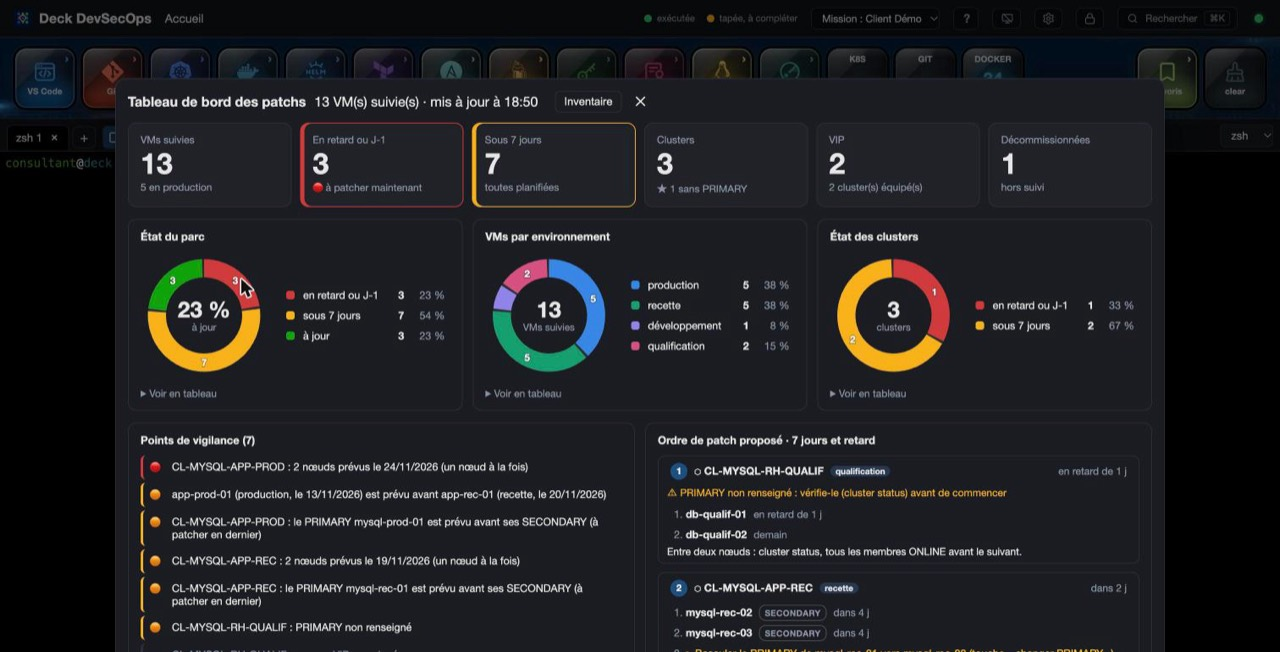
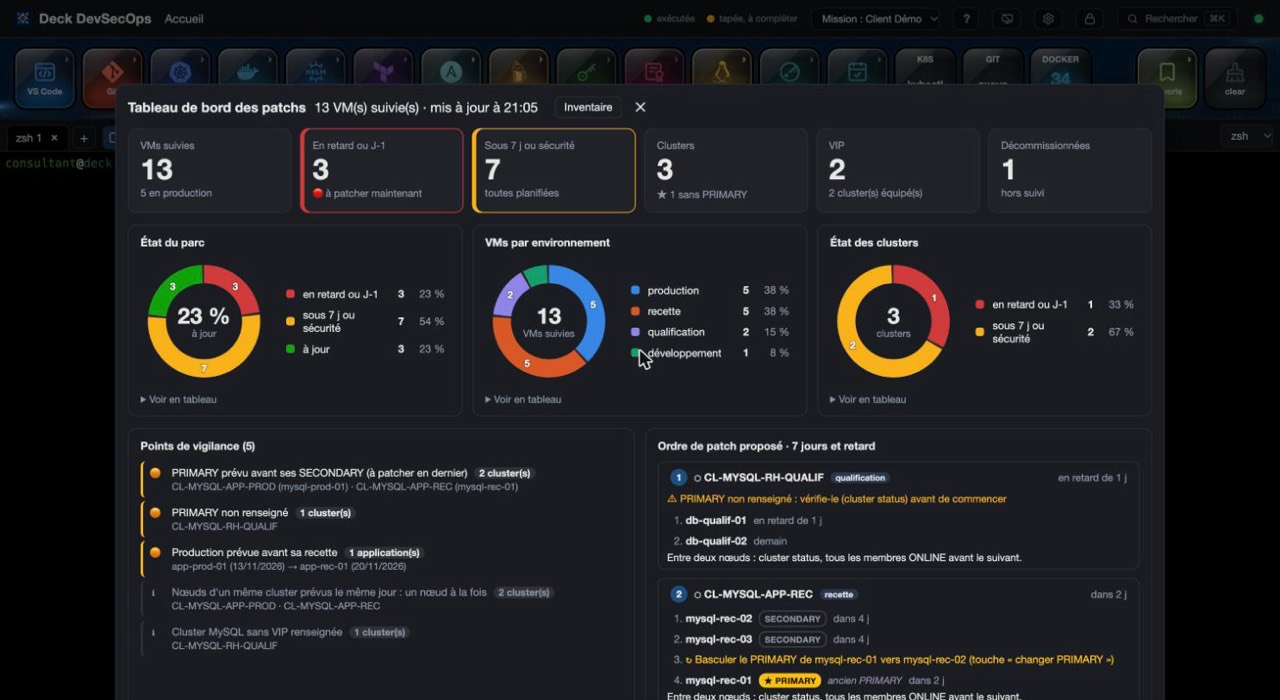
Tableau de bord : points de vigilance regroupés par type ; couleurs des environnements
- Une ligne par type (production avant recette, PRIMARY avant ses SECONDARY,
  PRIMARY non renseigné, nœuds le même jour, cluster sans VIP, redémarrage requis)
  avec le nombre de clusters ou de VMs, les premiers en clair, tous au survol ;
  « nœuds le même jour » en information ; le retard n'est plus un point de vigilance.
- Anneau des environnements : production bleu, recette orange, qualification violet,
  développement aqua (paires validées daltonisme) ; légende sur deux lignes si besoin.

diff --git a/public/patch-plan.js b/public/patch-plan.js
@@ -86,36 +86,33 @@ export const appKey = (name) => {
 };
 
 /**
- * Points de vigilance, du plus grave au moins grave (critical, warning, info), chacun avec les VMs concernées :
- * deux nœuds d'un cluster le même jour, majorité des nœuds en retard, PRIMARY prévu avant ses SECONDARY,
- * PRIMARY non renseigné, production prévue avant sa recette, cluster MySQL sans VIP, redémarrage requis (relevé).
+ * Points de vigilance, regroupés par type (une ligne par type, même avec beaucoup de clusters), du plus grave au moins
+ * grave : production prévue avant sa recette, PRIMARY prévu avant ses SECONDARY, PRIMARY non renseigné (warning) ;
+ * nœuds d'un cluster prévus le même jour, cluster MySQL sans VIP, redémarrage requis (info).
+ * Chaque point : { level, kind, text, unit, items (clusters ou VMs concernés), vms (VMs à ouvrir dans l'inventaire) }.
+ * Le retard n'en fait pas partie : il est déjà dans les chiffres, les anneaux et l'ordre de patch.
  */
-export function patchRisks(vms, clusters = {}, { today = new Date() } = {}) {
-    const days = (v) => daysUntil(v.nextPatch, today);
-    const risks = [];
-    const add = (level, text, names) => risks.push({ level, text, vms: names });
+export function patchRisks(vms, clusters = {}) {
+    const groups = new Map();
+    const add = (kind, level, text, unit, item, names) => {
+        const g = groups.get(kind) ?? { level, kind, text, unit, items: [], vms: new Set() };
+        g.items.push(item);
+        for (const n of names) g.vms.add(n);
+        groups.set(kind, g);
+    };
     for (const [cluster, nodes] of clusterNodes(vms)) {
-        const prod = nodes.some((v) => v.env === "production");
-        // Même jour : un nœud à la fois
-        const byDay = new Map();
-        for (const v of nodes) if (v.nextPatch) byDay.set(v.nextPatch, [...(byDay.get(v.nextPatch) ?? []), v]);
-        for (const [day, same] of byDay) {
-            if (same.length > 1) add(prod ? "critical" : "warning", `${cluster} : ${same.length} nœuds prévus le ${frDay(day)} (un nœud à la fois)`, same.map((v) => v.name).sort());
-        }
-        // Majorité des nœuds en retard
-        const late = nodes.filter((v) => (days(v) ?? 1) < 0);
-        if (nodes.length > 1 && late.length > nodes.length / 2) {
-            add("critical", `${cluster} : ${late.length} nœuds sur ${nodes.length} en retard (un nœud à la fois, quorum vérifié entre chaque)`, late.map((v) => v.name).sort());
-        }
+        const names = nodes.map((v) => v.name);
+        // Même jour : normal pour une fenêtre de maintenance, à condition de patcher un nœud à la fois
+        const days = new Map();
+        for (const v of nodes) if (v.nextPatch) days.set(v.nextPatch, (days.get(v.nextPatch) ?? 0) + 1);
+        if ([...days.values()].some((n) => n > 1)) add("same-day", "info", "Nœuds d'un même cluster prévus le même jour : un nœud à la fois", "cluster(s)", cluster, names);
         const primary = nodes.find((v) => v.role === "primary");
         const secondaries = nodes.filter((v) => v !== primary && v.nextPatch);
         if (primary?.nextPatch && secondaries.length && primary.nextPatch < secondaries.map((v) => v.nextPatch).sort()[0]) {
-            add("warning", `${cluster} : le PRIMARY ${primary.name} est prévu avant ses SECONDARY (à patcher en dernier)`, [primary.name, ...secondaries.map((v) => v.name).sort()]);
+            add("primary-first", "warning", "PRIMARY prévu avant ses SECONDARY (à patcher en dernier)", "cluster(s)", `${cluster} (${primary.name})`, names);
         }
-        if (!primary && nodes.length > 1) add("warning", `${cluster} : PRIMARY non renseigné`, nodes.map((v) => v.name).sort());
-        if (nodes.some((v) => v.profile === "mysql-innodb") && !clusters[cluster]?.vips?.length) {
-            add("info", `${cluster} : aucune VIP renseignée`, nodes.map((v) => v.name).sort());
-        }
+        if (!primary && nodes.length > 1) add("no-primary", "warning", "PRIMARY non renseigné", "cluster(s)", cluster, names);
+        if (nodes.some((v) => v.profile === "mysql-innodb") && !clusters[cluster]?.vips?.length) add("no-vip", "info", "Cluster MySQL sans VIP renseignée", "cluster(s)", cluster, names);
     }
     // Production prévue avant la recette (ou un autre environnement) de la même application
     const apps = new Map();
@@ -128,12 +125,13 @@ export function patchRisks(vms, clusters = {}, { today = new Date() } = {}) {
         const other = list.filter((v) => v.env !== "production").sort((a, b) => a.nextPatch.localeCompare(b.nextPatch));
         if (!prod.length || !other.length || prod[0].nextPatch >= other[0].nextPatch) continue;
         const label = (v) => v.cluster || v.name;
-        add("warning", `${label(prod[0])} (production, le ${frDay(prod[0].nextPatch)}) est prévu avant ${label(other[0])} (${other[0].env}, le ${frDay(other[0].nextPatch)})`,
-            [...new Set([...prod, ...other].map((v) => v.name))].sort());
+        add("prod-first", "warning", "Production prévue avant sa recette", "application(s)",
+            `${label(prod[0])} (${frDay(prod[0].nextPatch)}) → ${label(other[0])} (${frDay(other[0].nextPatch)})`, [...prod, ...other].map((v) => v.name));
     }
     // Redémarrage requis d'après le dernier relevé (noyau ou bibliothèques mis à jour, pas encore pris en compte)
-    const reboot = live(vms).filter((v) => v.check?.reboot).map((v) => v.name).sort();
-    if (reboot.length) add("info", `${reboot.length} VM(s) avec redémarrage requis : ${reboot.slice(0, 6).join(", ")}${reboot.length > 6 ? "…" : ""}`, reboot);
+    for (const v of live(vms).filter((x) => x.check?.reboot)) add("reboot", "info", "Redémarrage requis (relevé)", "VM(s)", v.name, [v.name]);
     const rank = { critical: 0, warning: 1, info: 2 };
-    return risks.sort((a, b) => rank[a.level] - rank[b.level] || a.text.localeCompare(b.text, "fr"));
+    return [...groups.values()]
+        .map((g) => ({ ...g, items: [...new Set(g.items)].sort((a, b) => a.localeCompare(b, "fr", { numeric: true })), vms: [...g.vms].sort() }))
+        .sort((a, b) => rank[a.level] - rank[b.level] || b.items.length - a.items.length);
 }

diff --git a/public/style.css b/public/style.css
@@ -1681,9 +1681,10 @@ input[type="date"]::-webkit-calendar-picker-indicator:hover, input[type="datetim
 .dash-click:focus-visible { outline: 2px solid var(--accent-strong); outline-offset: 2px; border-radius: 4px; }
 .dash-tile.dash-click:hover, .dash-cluster.dash-click:hover, .dash-risk.dash-click:hover, .dash-plan-head.dash-click:hover, .dash-row.dash-click:hover { background: color-mix(in srgb, var(--accent-strong) 12%, transparent); }
 .dash-row-label.dash-click:hover { text-decoration: underline; }
-/* Anneaux : environnements en teintes non réservées (validées daltonisme, ordre fixe), redéfinies en mode clair */
-#patch-dash { --env-0: #3987e5; --env-1: #199e70; --env-2: #9085e9; --env-3: #d55181; --env-4: #8a8f98; }
-[data-mode="light"] #patch-dash { --env-0: #2a78d6; --env-1: #1baf7a; --env-2: #6250d6; --env-3: #e87ba4; --env-4: #8a8f98; }
+/* Anneaux : environnements (ordre fixe, voir DASH_ENVS) : production bleu, recette orange, qualification violet,
+   développement aqua, autre gris. Validé daltonisme : seuls bleu et violet se confondent, jamais voisins sauf sans recette */
+#patch-dash { --env-0: #3987e5; --env-1: #d95926; --env-2: #9085e9; --env-3: #199e70; --env-4: #8a8f98; }
+[data-mode="light"] #patch-dash { --env-0: #2a78d6; --env-1: #eb6834; --env-2: #6250d6; --env-3: #1baf7a; --env-4: #8a8f98; }
 .dash-donuts { display: grid; grid-template-columns: repeat(auto-fit, minmax(300px, 1fr)); gap: 12px; }
 .dash-donut { display: flex; align-items: center; gap: 16px; }
 .dash-donut-chart { position: relative; width: 150px; height: 150px; flex: none; }
@@ -1698,7 +1699,7 @@ input[type="date"]::-webkit-calendar-picker-indicator:hover, input[type="datetim
 .dash-donut-legend { display: flex; flex-direction: column; gap: 3px; min-width: 0; flex: 1; }
 .dash-donut-item { display: grid; grid-template-columns: 12px minmax(0, 1fr) auto 40px; align-items: center; gap: 8px; padding: 3px 6px; border-radius: 6px; font-size: 12.5px; }
 .dash-donut-item.dash-click:hover { background: color-mix(in srgb, var(--accent-strong) 12%, transparent); }
-.dash-donut-name { color: var(--text); overflow: hidden; text-overflow: ellipsis; white-space: nowrap; }
+.dash-donut-name { color: var(--text); line-height: 1.25; overflow-wrap: anywhere; }
 .dash-donut-count { color: var(--text); font-weight: 600; font-variant-numeric: tabular-nums; text-align: right; }
 .dash-donut-pct { color: var(--muted); font-variant-numeric: tabular-nums; text-align: right; }
 /* Points de vigilance : icône + texte (jamais la couleur seule) */
@@ -1707,6 +1708,9 @@ input[type="date"]::-webkit-calendar-picker-indicator:hover, input[type="datetim
 .dash-risk.critical { border-left-color: #d03b3b; }
 .dash-risk.warning { border-left-color: #fab219; }
 .dash-risk.info { border-left-color: var(--border); color: var(--muted); }
+.dash-risk-body { display: flex; flex-wrap: wrap; align-items: baseline; gap: 2px 8px; min-width: 0; }
+.dash-risk-count { font-size: 11.5px; font-weight: 700; padding: 0 6px; border-radius: 9px; background: color-mix(in srgb, var(--text) 10%, transparent); white-space: nowrap; }
+.dash-risk-items { flex-basis: 100%; font-size: 11.5px; color: var(--muted); overflow: hidden; text-overflow: ellipsis; white-space: nowrap; }
 /* Ordre de patch proposé */
 .dash-plan { display: flex; flex-direction: column; gap: 10px; max-height: 340px; overflow: auto; }
 .dash-plan-group { border: 1px solid var(--border); border-radius: 8px; padding: 6px 10px; }

diff --git a/public/i18n/en.js b/public/i18n/en.js
@@ -1406,12 +1406,7 @@ export default {
     "Semaine du {0}": "Week of {0}",
     "Points de vigilance ({0})": "Watch points ({0})",
     "🟢 Rien à signaler : un nœud à la fois, PRIMARY en dernier, recette avant production.": "🟢 Nothing to report: one node at a time, PRIMARY last, UAT before production.",
-    "{0} : {1} nœuds prévus le {2} (un nœud à la fois)": "{0}: {1} nodes scheduled on {2} (one node at a time)",
-    "{0} : {1} nœuds sur {2} en retard (un nœud à la fois, quorum vérifié entre chaque)": "{0}: {1} of {2} nodes overdue (one node at a time, quorum checked in between)",
-    "{0} : le PRIMARY {1} est prévu avant ses SECONDARY (à patcher en dernier)": "{0}: PRIMARY {1} is scheduled before its SECONDARY nodes (patch it last)",
     "{0} : PRIMARY non renseigné": "{0}: PRIMARY not set",
-    "{0} : aucune VIP renseignée": "{0}: no VIP set",
-    "{0} (production, le {1}) est prévu avant {2} ({3}, le {4})": "{0} (production, on {1}) is scheduled before {2} ({3}, on {4})",
     "Ordre de patch proposé · 7 jours et retard": "Suggested patch order · 7 days and overdue",
     "PRIMARY non renseigné : vérifie-le (cluster status) avant de commencer": "PRIMARY not set: check it (cluster status) before starting",
     "↻ Basculer le PRIMARY de {0} vers {1} (touche « changer PRIMARY »)": "↻ Switch the PRIMARY from {0} to {1} (\"switch PRIMARY\" key)",
@@ -1460,8 +1455,15 @@ export default {
     "Redémarrage requis (noyau ou bibliothèques mis à jour)": "Reboot required (kernel or libraries updated)",
     "🟠 sous 7 j, à planifier ou sécurité {0}": "🟠 within 7 d, to schedule or security {0}",
     "sous 7 j ou sécurité": "within 7 d or security",
-    "{0} VM(s) avec redémarrage requis : {1}": "{0} {0:VM|VMs} with reboot required: {1}",
     "{0} · {1} MAJ de sécurité": "{0} · {1} security {1:update|updates}",
     "sécu": "sec",
-    "Sous 7 j ou sécurité": "Within 7 d or security"
+    "Sous 7 j ou sécurité": "Within 7 d or security",
+    // ---------- Points de vigilance regroupés ----------
+    "Nœuds d'un même cluster prévus le même jour : un nœud à la fois": "Nodes of one cluster scheduled on the same day: one node at a time",
+    "PRIMARY prévu avant ses SECONDARY (à patcher en dernier)": "PRIMARY scheduled before its SECONDARY nodes (patch it last)",
+    "Cluster MySQL sans VIP renseignée": "MySQL cluster without a VIP set",
+    "Production prévue avant sa recette": "Production scheduled before its UAT",
+    "Redémarrage requis (relevé)": "Reboot required (survey)",
+    "{0} cluster(s)": "{0} {0:cluster|clusters}",
+    "{0} application(s)": "{0} {0:application|applications}"
 };

diff --git a/public/app.js b/public/app.js
@@ -4067,10 +4067,15 @@ function renderPatchDash() {
     const RISK_ICON = { critical: "🔴", warning: "🟠", info: "ℹ" };
     const riskList = h("div", "dash-risks");
     for (const r of risks) {
+        // Une ligne par type : titre, nombre de clusters (ou VMs) concernés, les premiers en clair, tous au survol
         const row = h("div", `dash-risk ${r.level}`);
-        row.append(h("span", "dash-risk-icon", RISK_ICON[r.level]), h("span", "dash-risk-text", r.text));
-        // Libellé de la sélection : le cluster ou la VM concernés (début du texte)
-        riskList.append(drillable(row, r.vms, `⚠ ${r.text.split(/ : | \(/)[0]}`));
+        const body = h("span", "dash-risk-body");
+        const items = h("span", "dash-risk-items", `${r.items.slice(0, 4).join(" · ")}${r.items.length > 4 ? ` +${r.items.length - 4}` : ""}`);
+        items.dataset.noI18n = "";
+        body.append(h("span", "dash-risk-text", r.text), h("span", "dash-risk-count", `${r.items.length} ${r.unit}`), items);
+        row.append(h("span", "dash-risk-icon", RISK_ICON[r.level]), body);
+        row.dataset.tip = r.items.join("\n");
+        riskList.append(drillable(row, r.vms, `⚠ ${tr(r.text)}`));
     }
     const riskCard = card(`Points de vigilance (${risks.length})`, risks.length ? riskList : h("p", "hint", "🟢 Rien à signaler : un nœud à la fois, PRIMARY en dernier, recette avant production."));
 
@@ -4121,7 +4126,9 @@ function renderPatchDash() {
 }
 
 /** Environnements dans l'anneau : ordre fixe (la couleur suit l'environnement, jamais son rang), teintes non réservées. */
-const DASH_ENVS = ["production", "recette", "développement", "qualification", "autre"];
+// Ordre de l'anneau et couleurs (style.css, --env-N) choisis pour que deux parts voisines restent distinctes, daltonisme
+// compris : production bleu, recette orange, qualification violet, développement aqua, autre gris
+const DASH_ENVS = ["production", "recette", "qualification", "développement", "autre"];
 
 /**
  * Anneau (camembert évidé) : un tout en 6 parts au plus, lu d'un coup d'œil. Parts séparées par un liseré, nombre

diff --git a/README.md b/README.md
@@ -207,7 +207,7 @@ Après une modification de `config.jsonc` ou `paths.json`, redémarrer le serveu
 
 ## Patchs des VMs
 
-Rubrique **Patchs** (à cocher dans Réglages › Rubriques) : inventaire de tes VMs (nom, hôte SSH, clé SSH pour `ssh -i`, environnement, tags libres (`linux, dmz, critique`), description, dernier et prochain patch, fréquence) dans `patches.json` (hors Git, sauvegardé, inclus dans la configuration complète). Le **voyant patchs** affiche la VM la plus urgente (J-3, J, J+2 en retard) : vert, **orange à 7 jours ou moins**, **rouge à J-1, le jour même ou en retard** ; alertes une fois par seuil comme pour les certificats. **Patché** met le dernier patch à aujourd'hui et recalcule le prochain avec la fréquence (noté dans le journal). Touches **ssh VM** et **ssh -i VM** (clé puis hôte, listes réelles) ; **relevé patch** / **relevé Windows** : dans le terminal connecté à la VM, commande en lecture seule (sans sudo) qui imprime une ligne repère `DECK-PATCH …` lue par le deck : dernier patch réel (prochain recalculé), mises à jour en attente, sécurité, redémarrage requis ; **sécurité en attente = VM en orange** ; bouton **SSH** de l'inventaire avec la clé de la VM si elle est renseignée. Touches de vérification sur la VM après un ssh : mises à jour en attente (apt / dnf), sécurité, redémarrage requis, noyau, historique, correctifs Windows. **Import en masse** depuis un CSV (Excel : séparateur `;`, dates JJ/MM/AAAA ; colonnes nom, hote, cle, environnement, dernier_patch, prochain_patch, frequence, tags, description) avec aperçu avant confirmation (ajout ou mise à jour par nom, jamais de suppression), **export CSV** réimportable et modèle à remplir. **Terminal connecté à une VM** : cadre de couleur autour du terminal (rouge en production, bleu sinon), étiquette accrochée au cadre (« SSH · app-prod-01 · production ») et nom sur l'onglet : VM de l'inventaire, sinon l'hôte ; seule la destination est lue dans la commande ssh. Inventaire lisible (lignes alternées, ligne survolée, liseré d'urgence). **Filtres** par environnement, par tags (combinés) et par **état** (en retard, sous 7 j, plus tard, décommissionnée), avec le nombre de VMs ; **tri** par urgence, nom, environnement ou dates (menu, ou clic sur les titres de colonnes ; retenu). Touches **cluster status**, **clusterset status** et **mysqlsh (JS)** (MySQL InnoDB Cluster, à lancer sur un nœud après le ssh : `` mysqlsh root@`hostname` -- cluster status `` / `clusterset status --extended=1`, et `` mysqlsh root@`hostname` --js `` pour les commandes `dba.*` ; mot de passe demandé par mysqlsh). Sous-page **Patchs › MySQL Cluster** : commandes à lancer dans la session JS, lecture (status, status étendu, clusterset, describe, membres GR, GTID, start_on_boot ; `session.runSql(…)` pour rester en JS) et remédiation tapée sans Entrée (rejoin, forcer quorum, reboot outage, changer PRIMARY, retirer / ajouter un nœud par clone), nœud choisi parmi ceux du cluster de la VM connectée (`hôte:3306`, rôle affiché). **Tableau de bord** (en-tête de l'inventaire ou ⌘K) : chiffres clés (VMs suivies, en retard, sous 7 jours, clusters, VIP, décommissionnées), patch par environnement (barres par statut, détail au survol, vue tableau), prochains patchs sur 8 semaines, clusters (nœuds, PRIMARY, VIP, état), tags les plus fréquents, trois anneaux (état du parc, VMs par environnement, état des clusters) ; tout est cliquable (inventaire filtré sur les VMs concernées) ; **points de vigilance** (nœuds d'un cluster le même jour, majorité en retard, PRIMARY prévu avant ses SECONDARY ou non renseigné, production avant sa recette, cluster MySQL sans VIP) et **ordre de patch proposé** (recette avant production, SECONDARY d'abord, bascule du PRIMARY, ancien PRIMARY en dernier ; copiable en Markdown). **VIP des clusters** (**✎ VIP** dans l'en-tête du cluster : `adresse[:port] [libellé]`, 10 au plus) : affichées dans l'en-tête, un clic tape `nc -zv <vip> <port>` sans Entrée ; recherche par adresse ; incluses dans la configuration complète. **VM décommissionnée** (case du formulaire, colonne CSV `decom`) : gardée dans l'inventaire, grisée et en fin de liste, hors suivi (voyant, alertes, calendrier, synthèse, listes de connexion), perd son rôle de PRIMARY ; **Remettre en service** la fait revenir ; un cluster dont tous les nœuds sont décommissionnés passe au gris. **Clusters** : champs Cluster, ClusterSet, Profil (standard ou MySQL InnoDB Cluster) et **Rôle** (PRIMARY / SECONDARY, un seul PRIMARY par cluster : l'ancien repasse SECONDARY) par VM, colonnes CSV `cluster`, `clusterset`, `profil`, `role` ; PRIMARY mis en avant (badge doré, en tête du cluster, rappelé dans l'en-tête) ; **⬡ par cluster** regroupe l'inventaire avec un en-tête par cluster (environnement, ClusterSet, nœuds, reboot requis, état le plus urgent). **Dupliquer** une VM : formulaire pré-rempli, nom suivant libre (`app-prod-01` → `app-prod-02`). Les touches qui demandent un hôte (**ssh VM**, **ssh -i VM**, rubrique SSH) proposent **les VMs de l'inventaire en tête** (nom et environnement affichés), la clé de la VM étant reprise pour `ssh -i`. Détails : [docs/13-patchs.md](docs/13-patchs.md).
+Rubrique **Patchs** (à cocher dans Réglages › Rubriques) : inventaire de tes VMs (nom, hôte SSH, clé SSH pour `ssh -i`, environnement, tags libres (`linux, dmz, critique`), description, dernier et prochain patch, fréquence) dans `patches.json` (hors Git, sauvegardé, inclus dans la configuration complète). Le **voyant patchs** affiche la VM la plus urgente (J-3, J, J+2 en retard) : vert, **orange à 7 jours ou moins**, **rouge à J-1, le jour même ou en retard** ; alertes une fois par seuil comme pour les certificats. **Patché** met le dernier patch à aujourd'hui et recalcule le prochain avec la fréquence (noté dans le journal). Touches **ssh VM** et **ssh -i VM** (clé puis hôte, listes réelles) ; **relevé patch** / **relevé Windows** : dans le terminal connecté à la VM, commande en lecture seule (sans sudo) qui imprime une ligne repère `DECK-PATCH …` lue par le deck : dernier patch réel (prochain recalculé), mises à jour en attente, sécurité, redémarrage requis ; **sécurité en attente = VM en orange** ; bouton **SSH** de l'inventaire avec la clé de la VM si elle est renseignée. Touches de vérification sur la VM après un ssh : mises à jour en attente (apt / dnf), sécurité, redémarrage requis, noyau, historique, correctifs Windows. **Import en masse** depuis un CSV (Excel : séparateur `;`, dates JJ/MM/AAAA ; colonnes nom, hote, cle, environnement, dernier_patch, prochain_patch, frequence, tags, description) avec aperçu avant confirmation (ajout ou mise à jour par nom, jamais de suppression), **export CSV** réimportable et modèle à remplir. **Terminal connecté à une VM** : cadre de couleur autour du terminal (rouge en production, bleu sinon), étiquette accrochée au cadre (« SSH · app-prod-01 · production ») et nom sur l'onglet : VM de l'inventaire, sinon l'hôte ; seule la destination est lue dans la commande ssh. Inventaire lisible (lignes alternées, ligne survolée, liseré d'urgence). **Filtres** par environnement, par tags (combinés) et par **état** (en retard, sous 7 j, plus tard, décommissionnée), avec le nombre de VMs ; **tri** par urgence, nom, environnement ou dates (menu, ou clic sur les titres de colonnes ; retenu). Touches **cluster status**, **clusterset status** et **mysqlsh (JS)** (MySQL InnoDB Cluster, à lancer sur un nœud après le ssh : `` mysqlsh root@`hostname` -- cluster status `` / `clusterset status --extended=1`, et `` mysqlsh root@`hostname` --js `` pour les commandes `dba.*` ; mot de passe demandé par mysqlsh). Sous-page **Patchs › MySQL Cluster** : commandes à lancer dans la session JS, lecture (status, status étendu, clusterset, describe, membres GR, GTID, start_on_boot ; `session.runSql(…)` pour rester en JS) et remédiation tapée sans Entrée (rejoin, forcer quorum, reboot outage, changer PRIMARY, retirer / ajouter un nœud par clone), nœud choisi parmi ceux du cluster de la VM connectée (`hôte:3306`, rôle affiché). **Tableau de bord** (en-tête de l'inventaire ou ⌘K) : chiffres clés (VMs suivies, en retard, sous 7 jours, clusters, VIP, décommissionnées), patch par environnement (barres par statut, détail au survol, vue tableau), prochains patchs sur 8 semaines, clusters (nœuds, PRIMARY, VIP, état), tags les plus fréquents, trois anneaux (état du parc, VMs par environnement, état des clusters) ; tout est cliquable (inventaire filtré sur les VMs concernées) ; **points de vigilance** regroupés par type (production avant sa recette, PRIMARY prévu avant ses SECONDARY ou non renseigné, nœuds d'un cluster le même jour, cluster MySQL sans VIP, redémarrage requis) et **ordre de patch proposé** (recette avant production, SECONDARY d'abord, bascule du PRIMARY, ancien PRIMARY en dernier ; copiable en Markdown). **VIP des clusters** (**✎ VIP** dans l'en-tête du cluster : `adresse[:port] [libellé]`, 10 au plus) : affichées dans l'en-tête, un clic tape `nc -zv <vip> <port>` sans Entrée ; recherche par adresse ; incluses dans la configuration complète. **VM décommissionnée** (case du formulaire, colonne CSV `decom`) : gardée dans l'inventaire, grisée et en fin de liste, hors suivi (voyant, alertes, calendrier, synthèse, listes de connexion), perd son rôle de PRIMARY ; **Remettre en service** la fait revenir ; un cluster dont tous les nœuds sont décommissionnés passe au gris. **Clusters** : champs Cluster, ClusterSet, Profil (standard ou MySQL InnoDB Cluster) et **Rôle** (PRIMARY / SECONDARY, un seul PRIMARY par cluster : l'ancien repasse SECONDARY) par VM, colonnes CSV `cluster`, `clusterset`, `profil`, `role` ; PRIMARY mis en avant (badge doré, en tête du cluster, rappelé dans l'en-tête) ; **⬡ par cluster** regroupe l'inventaire avec un en-tête par cluster (environnement, ClusterSet, nœuds, reboot requis, état le plus urgent). **Dupliquer** une VM : formulaire pré-rempli, nom suivant libre (`app-prod-01` → `app-prod-02`). Les touches qui demandent un hôte (**ssh VM**, **ssh -i VM**, rubrique SSH) proposent **les VMs de l'inventaire en tête** (nom et environnement affichés), la clé de la VM étant reprise pour `ssh -i`. Détails : [docs/13-patchs.md](docs/13-patchs.md).
 
 **Échéances** (bouton Calendrier, ou ⌘K) : calendrier du mois des prochains patchs et des expirations de certificats, liste du retard et des 60 prochains jours, **export .ics** pour Outlook / Google Agenda (rappel 3 j avant en production, 1 j sinon ; réimporter met à jour sans dupliquer). **Synthèse du client** (⌘K) : état de la mission (contexte kubectl, certificats et VMs par environnement, à traiter, échéances à 30 jours, actions en production des 7 derniers jours), à copier en Markdown ou télécharger. Détails : [docs/14-echeances-et-synthese.md](docs/14-echeances-et-synthese.md).
 

diff --git a/docs/13-patchs.md b/docs/13-patchs.md
@@ -151,15 +151,20 @@ de vigilance ouvre l'**inventaire filtré sur ses VMs**, avec un filtre **Sélec
 
 ### Points de vigilance
 
-Ce qui peut mal tourner pendant une campagne, du plus grave au moins grave (🔴, 🟠, ℹ), avec les VMs concernées :
+Ce qui peut mal tourner pendant une campagne, **regroupé par type** : une ligne par type, avec le nombre de clusters
+(ou de VMs) concernés, les premiers en clair et tous au survol ; un clic ouvre toutes leurs VMs dans l'inventaire.
+Du plus grave au moins grave (🟠 puis ℹ) :
 
-- **deux nœuds d'un même cluster prévus le même jour** : un nœud à la fois (🔴 en production) ;
-- **la majorité des nœuds d'un cluster en retard** : un nœud à la fois, quorum vérifié entre chaque ;
-- **le PRIMARY prévu avant ses SECONDARY** : il se patche en dernier ;
-- **PRIMARY non renseigné** dans un cluster de plusieurs nœuds ;
-- **la production prévue avant sa recette** : rapprochées par le nom, sans les mots d'environnement (`app-prod-01` et
-  `app-rec-01`, `CL-MYSQL-APP-PROD` et `CL-MYSQL-APP-REC`) ;
-- ℹ **cluster MySQL sans VIP** renseignée.
+- 🟠 **la production prévue avant sa recette** : rapprochées par le nom, sans les mots d'environnement (`app-prod-01`
+  et `app-rec-01`, `CL-MYSQL-APP-PROD` et `CL-MYSQL-APP-REC`) ;
+- 🟠 **le PRIMARY prévu avant ses SECONDARY** : il se patche en dernier ;
+- 🟠 **PRIMARY non renseigné** dans un cluster de plusieurs nœuds ;
+- ℹ **nœuds d'un même cluster prévus le même jour** : normal pour une fenêtre de maintenance, à condition de patcher un
+  nœud à la fois ;
+- ℹ **cluster MySQL sans VIP** renseignée ;
+- ℹ **redémarrage requis** d'après le [relevé](#relevé-patch--létat-réel-de-la-vm).
+
+Le retard n'est pas un point de vigilance : il est déjà dans les chiffres, les anneaux et l'ordre de patch.
 
 ### Ordre de patch proposé
 

diff --git a/docs/en/13-patchs.md b/docs/en/13-patchs.md
@@ -150,15 +150,20 @@ with ✕ or **All**. With the keyboard: Tab then Enter.
 
 ### Watch points
 
-What can go wrong during a campaign, from most to least serious (🔴, 🟠, ℹ), with the VMs concerned:
+What can go wrong during a campaign, **grouped by type**: one line per type, with the number of clusters (or VMs)
+concerned, the first ones in plain text and all of them on hover; a click opens all their VMs in the inventory. From
+most to least serious (🟠 then ℹ):
 
-- **two nodes of the same cluster scheduled on the same day**: one node at a time (🔴 in production);
-- **most of a cluster's nodes overdue**: one node at a time, quorum checked in between;
-- **the PRIMARY scheduled before its SECONDARY nodes**: it is patched last;
-- **PRIMARY not set** in a cluster of several nodes;
-- **production scheduled before its UAT**: matched by name, without the environment words (`app-prod-01` and
+- 🟠 **production scheduled before its UAT**: matched by name, without the environment words (`app-prod-01` and
   `app-rec-01`, `CL-MYSQL-APP-PROD` and `CL-MYSQL-APP-REC`);
-- ℹ **MySQL cluster without a VIP** set.
+- 🟠 **the PRIMARY scheduled before its SECONDARY nodes**: it is patched last;
+- 🟠 **PRIMARY not set** in a cluster of several nodes;
+- ℹ **nodes of one cluster scheduled on the same day**: normal for a maintenance window, as long as you patch one node
+  at a time;
+- ℹ **MySQL cluster without a VIP** set;
+- ℹ **reboot required** according to the [survey](#patch-survey-the-vms-real-state).
+
+Being overdue is not a watch point: it is already in the figures, the rings and the patch order.
 
 ### Suggested patch order
 
